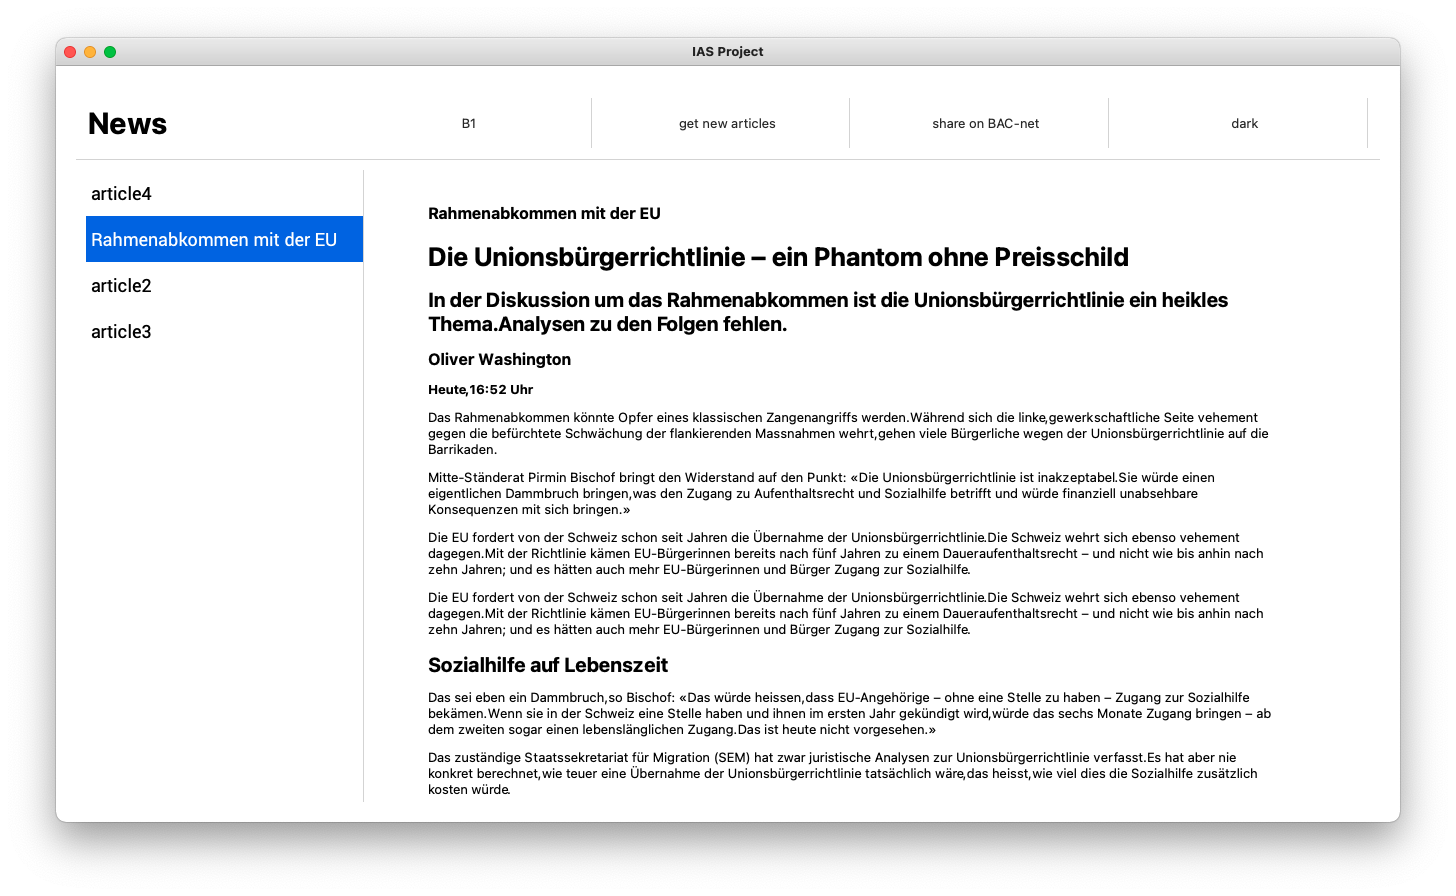
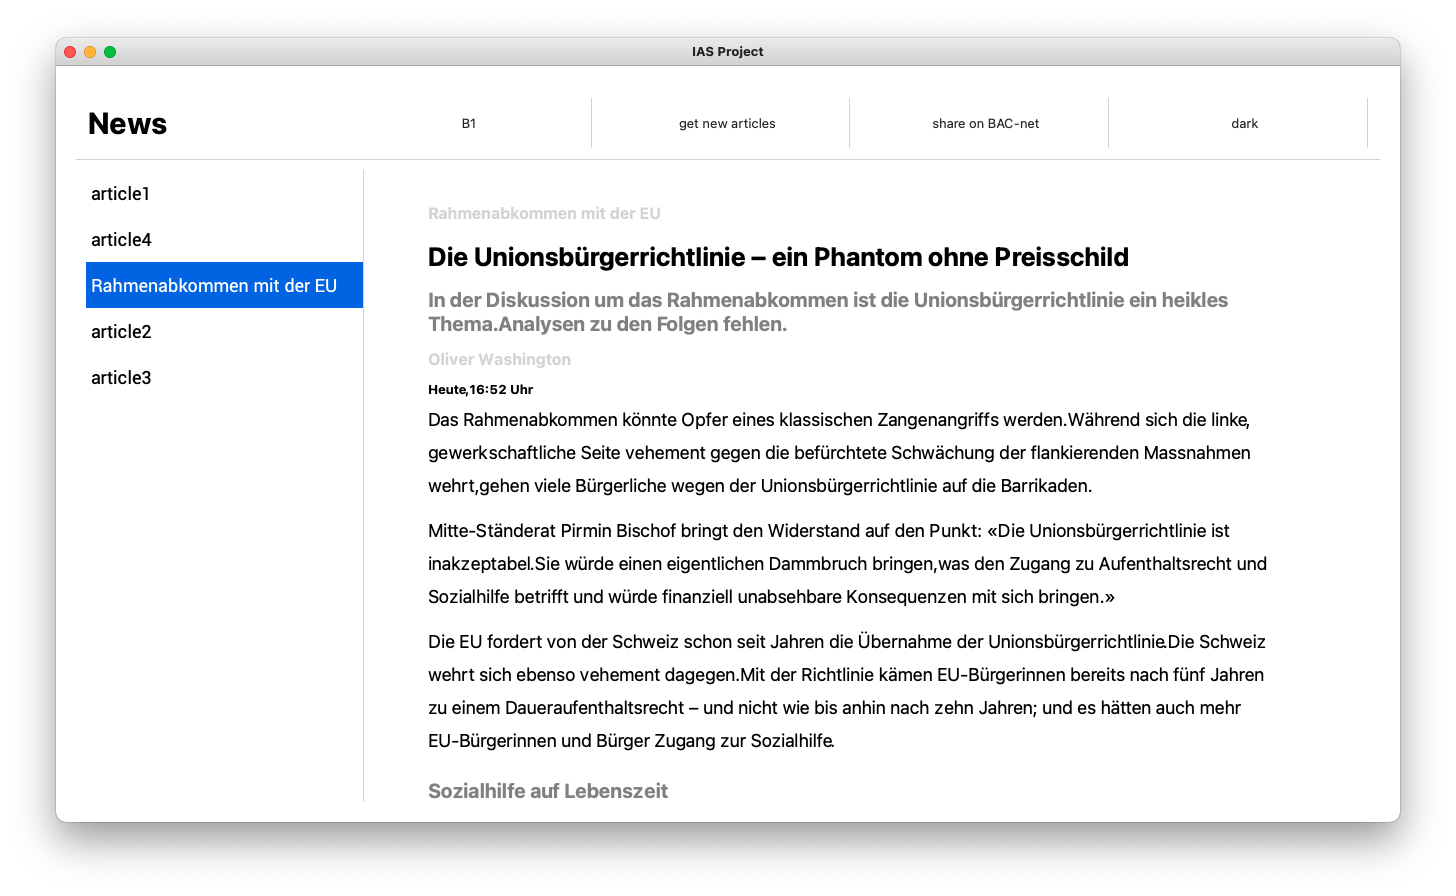
article style adjustments

diff --git a/src/gui/MainWindow.py b/src/gui/MainWindow.py
@@ -20,6 +20,7 @@ class MainWindow(qtw.QWidget):
         #text reader
         text = qtw.QTextBrowser()
         self.article = text
+        self.setArticleStyle()
         #with open("articles/article1.html", "r") as html:
         #    text.insertHtml(html.read())
         text.setOpenExternalLinks(True)
@@ -121,6 +122,15 @@ class MainWindow(qtw.QWidget):
         name = name.replace(" ", "_")
         name += ".html"
         return name
+
+    def setArticleStyle(self):
+        self.article.document().setDefaultStyleSheet(
+            "body {} "
+            "p {font-size: 18px; line-height: 1.5;} "
+            "h1 {} "
+            "h3 {color: lightgrey;}"
+            "h2 {color: grey;}"
+        )
 
     def getLightStyleSheet(self):
         stylesheet = """
